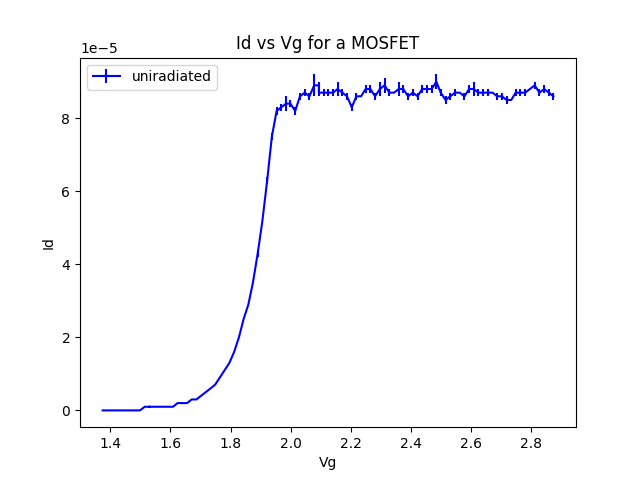
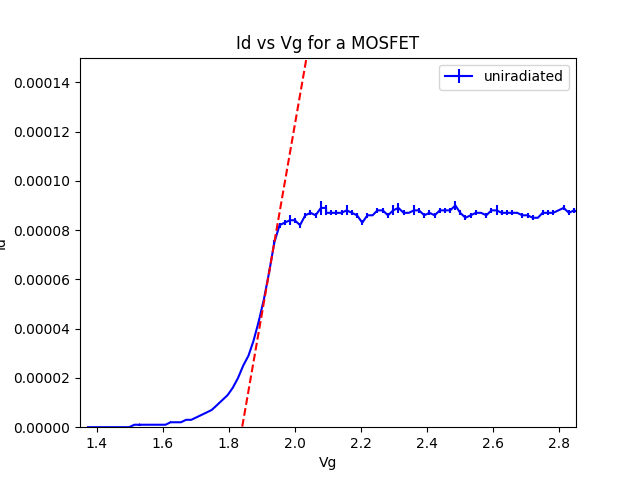
added x-intercept threshold voltage finder

diff --git a/analysis.py b/analysis.py
@@ -43,11 +43,31 @@ for dataset in datasets:
         plt.errorbar(voltages,currents,xerr = voltage_std, yerr = current_std, color = (i/71, 0, 1 - i/71))
     i+=1
 
+#linear fit at steepest point to find threshold voltage
+for dataset in datasets:
+    currents = dataset[0][0]
+    current_std = dataset[0][1]
+    voltages = dataset[1][0]
+    voltage_std = dataset[1][1]
+    max_derivative = 0
+    max_derivative_index = 0
+    for i in range(len(currents) - 1):
+        gradient = (currents[i + 1] - currents[i]) / (voltages[i + 1] - voltages[i])
+        if gradient > max_derivative:
+            max_derivative = gradient
+            max_derivative_index = i
+    f = lambda x : max_derivative * (x - voltages[max_derivative_index]) + currents[max_derivative_index]
+    plt.errorbar(voltages, list(map(f,(voltages))),fmt="--", color = 'red')
+    print("x-intercept = " + str((-currents[max_derivative_index] / max_derivative) + voltages[max_derivative_index]))
+
+
 # make graph things
 title = "Id vs Vg for a MOSFET"
 plt.legend()
 plt.title(title)
 plt.ylabel('Id')
 plt.xlabel('Vg')
+plt.xlim(1.35, 2.85)
+plt.ylim(0, 0.00015)
 plt.savefig(fname = "Graphs/"+data_file[5:-4]+".png")
 plt.show()
